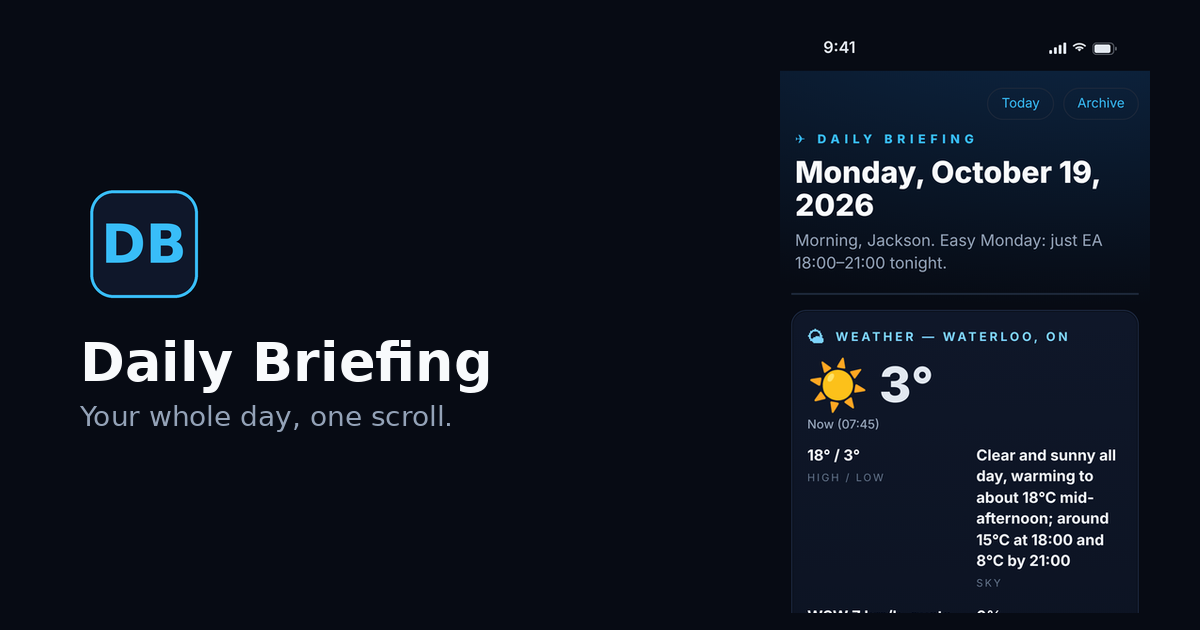
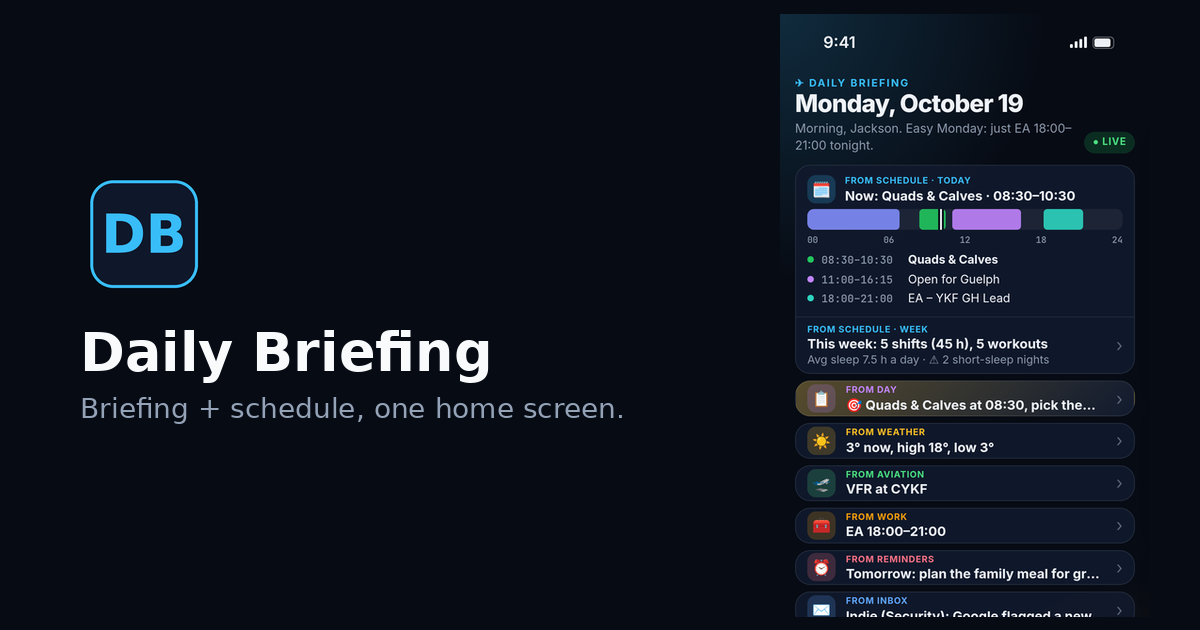
Teaser: show the combined widget app (briefing roll-up, schedule today and week, detail screens, gestures, colourways)

diff --git a/index.html b/index.html
@@ -3,10 +3,10 @@
 <head>
 <meta charset="utf-8">
 <meta name="viewport" content="width=device-width,initial-scale=1,viewport-fit=cover">
-<title>Daily Briefing: your whole day, one scroll</title>
+<title>Daily Briefing: your whole day, one home screen</title>
 <meta name="description" content="Weather, aviation, shifts, workouts, calendar, tasks and the day's focus — assembled every morning into one phone-friendly briefing.">
 <meta name="theme-color" content="#070b14">
-<meta property="og:title" content="Daily Briefing: your whole day, one scroll">
+<meta property="og:title" content="Daily Briefing: your whole day, one home screen">
 <meta property="og:description" content="Weather, aviation, shifts, workouts, calendar and focus in one morning briefing.">
 <meta property="og:image" content="https://jacksonpjwilson-dev.github.io/daily-briefing-launch/og.png">
 <meta name="twitter:card" content="summary_large_image">
@@ -15,13 +15,13 @@
 <link rel="apple-touch-icon" sizes="180x180" href="icon-180.png">
 <link rel="preconnect" href="https://fonts.googleapis.com"><link rel="preconnect" href="https://fonts.gstatic.com" crossorigin>
 <link href="https://fonts.googleapis.com/css2?family=Inter:wght@400;500;600;700;800&display=swap" rel="stylesheet">
-<link rel="preload" as="image" href="shots/today.webp">
-<link rel="stylesheet" href="styles.css?v=1">
+<link rel="preload" as="image" href="shots/briefing.webp">
+<link rel="stylesheet" href="styles.css?v=2">
 </head>
 <body>
 <header class="nav"><a class="brand" href="#top"><img src="icon-180.png" alt="" width="28" height="28">Daily Briefing</a>
-<nav><a href="#weather">Weather</a><a href="#aviation">Aviation</a><a href="#work">Work</a><a href="#day">Day</a><a href="#more">More</a></nav>
-<a class="pill sm" href="https://jacksonpjwilson-dev.github.io/briefing/">Open the live app</a></header>
+<nav><a href="#briefing">Briefing</a><a href="#schedule">Schedule</a><a href="#sections">Sections</a><a href="#gestures">Gestures</a><a href="#colourways">Colourways</a></nav>
+<a class="pill sm" href="https://jacksonpjwilson-dev.github.io/briefing/preview-widget/">Try the preview</a></header>
 
 <main id="top">
 <section class="hero">
@@ -29,67 +29,75 @@
   <div class="hero-copy rv">
     <img class="appicon" src="icon-512.png" alt="Daily Briefing app icon" width="112" height="112">
     <p class="kicker">Introducing Daily Briefing</p>
-    <h1>Your whole day.<br><span class="grad">One scroll.</span></h1>
-    <p class="lede">Weather, METAR and TAF, shifts, aircraft movements, the workout, calendar, tasks and today's focus — assembled every morning into one phone-ready briefing.</p>
-    <div class="ctas"><a class="pill" href="https://jacksonpjwilson-dev.github.io/briefing/">Open the live briefing</a><a class="pill ghost" href="#weather">See what's inside ↓</a></div>
+    <h1>Your whole day.<br><span class="grad">One home screen.</span></h1>
+    <p class="lede">Your briefing and Cal’s combined schedule in one app. Swipe between widget pages, tap any line to zoom into its full section, then swipe up to go home.</p>
+    <div class="ctas"><a class="pill" href="https://jacksonpjwilson-dev.github.io/briefing/preview-widget/">Open the live preview</a><a class="pill ghost" href="#briefing">See how it works ↓</a></div>
     <div class="storewrap"><span class="store" role="img" aria-label="Coming soon on the App Store"><svg class="apl" viewBox="0 0 17 20" aria-hidden="true"><path fill="currentColor" d="M14.1 10.6c0-2.6 2.1-3.8 2.2-3.9-1.2-1.8-3.1-2-3.7-2-1.6-.2-3.1.9-3.9.9-.8 0-2-.9-3.4-.9C3.6 4.8 2 5.8 1.1 7.4c-1.8 3.2-.5 7.9 1.3 10.5.9 1.3 1.9 2.7 3.2 2.6 1.3-.1 1.8-.8 3.3-.8 1.6 0 2 .8 3.4.8 1.4 0 2.3-1.3 3.1-2.6 1-1.5 1.4-2.9 1.4-3-.1 0-2.7-1-2.7-4.3zM11.6 3c.7-.9 1.2-2 1-3.2-1 0-2.3.7-3 1.6-.7.8-1.2 2-1.1 3.1 1.2.1 2.3-.6 3.1-1.5z"/></svg><span><small>Coming soon on the</small><b>App Store</b></span></span></div>
   </div>
-  <div class="hero-phone rv d2"><div class="phone xl"><div class="scr"><img src="shots/today.webp" alt="Daily Briefing home screen" fetchpriority="high"></div><i class="island"></i></div></div>
+  <div class="hero-phone rv d2"><div class="phone xl"><div class="scr"><img src="shots/briefing.webp" alt="Briefing home: a roll-up of every section" fetchpriority="high"></div><i class="island"></i></div></div>
 </section>
 
-<section id="weather" class="feature">
-  <div class="copy rv"><p class="kicker">Weather</p><h2>Local conditions,<br>before you step out.</h2><p>Temperature, sky, wind and precip for home base — written in plain language, not just icons.</p>
-  <ul class="ticks"><li>Now, high and low at a glance</li><li>Wind with gusts</li><li>A short narrative for the rest of the day</li></ul></div>
-  <div class="stage rv d1"><div class="phone"><div class="scr"><img src="shots/weather.webp" alt="Weather card" loading="lazy"></div><i class="island"></i></div></div>
+<section id="briefing" class="feature">
+  <div class="copy rv"><p class="kicker">The briefing</p><h2>A summary of<br>the whole app.</h2><p>Home is built only from the app's sections. Every line carries a small "from Schedule", "from Weather" or "from Work" label, and tapping it opens that section.</p>
+  <ul class="ticks"><li>Today's schedule up top, with a live now-marker</li><li>This week's shifts, workouts and sleep at a glance</li><li>Focus, weather, aviation, work, reminders, inbox and more</li></ul></div>
+  <div class="stage rv d1"><div class="phone"><div class="scr"><img src="shots/briefing.webp" alt="Briefing roll-up with source labels" loading="lazy"></div><i class="island"></i></div></div>
 </section>
 
-<section id="aviation" class="feature flip">
-  <div class="copy rv"><p class="kicker">Aviation</p><h2>METAR, TAF and a<br>VFR call you can trust.</h2><p>Raw and decoded field weather for CYKF, plus a short note that ties the forecast to your shift.</p>
-  <ul class="ticks"><li>Live category badge: VFR, MVFR, IFR or LIFR</li><li>Decoded wind, vis, sky and altimeter</li><li>Frost and timing callouts when they matter</li></ul></div>
-  <div class="stage rv d1"><div class="phone"><div class="scr"><img src="shots/aviation.webp" alt="Aviation METAR and TAF" loading="lazy"></div><i class="island"></i></div></div>
-</section>
-
-<section id="work" class="trio">
-  <div class="copy center rv"><p class="kicker">Work day</p><h2>Shifts, movements and the workout.</h2><p>Who you're working for, what's on the ramp, and when you're lifting — so the day doesn't collide with itself.</p></div>
+<section id="schedule" class="trio dark">
+  <div class="copy center rv"><p class="kicker">Schedule</p><h2>Today and the week, from Cal’s combined schedule.</h2><p>Chartright and EA shifts, workouts, sleep and the Guelph windows, in Ontario 24-hour time. Free windows and short-sleep nights are worked out for you.</p></div>
   <div class="row3">
-    <figure class="rv"><div class="phone"><div class="scr"><img src="shots/shifts.webp" alt="Today's shifts" loading="lazy"></div><i class="island"></i></div><figcaption><b>Shifts</b>EA, Chartright and the rest, with times and notes.</figcaption></figure>
-    <figure class="rv d1"><div class="phone"><div class="scr"><img src="shots/movements.webp" alt="Aircraft movements" loading="lazy"></div><i class="island"></i></div><figcaption><b>Movements</b>Arrivals and departures pulled from FlightBridge.</figcaption></figure>
-    <figure class="rv d2"><div class="phone"><div class="scr"><img src="shots/workout.webp" alt="Workout of the day" loading="lazy"></div><i class="island"></i></div><figcaption><b>Workout</b>Group, time and label — or a rest day.</figcaption></figure>
+    <figure class="rv"><div class="phone"><div class="scr"><img src="shots/schedule-today.webp" alt="Schedule today detail" loading="lazy"></div><i class="island"></i></div><figcaption><b>Today</b>What's on now, free windows and the full timeline.</figcaption></figure>
+    <figure class="rv d1"><div class="phone"><div class="scr"><img src="shots/schedule-week.webp" alt="Schedule week detail" loading="lazy"></div><i class="island"></i></div><figcaption><b>Week</b>Seven days side by side, plus sleep flags.</figcaption></figure>
+    <figure class="rv d2"><div class="phone"><div class="scr"><img src="shots/plan.webp" alt="Week widget page" loading="lazy"></div><i class="island"></i></div><figcaption><b>Week widget</b>The week on your home screen.</figcaption></figure>
   </div>
 </section>
 
-<section id="day" class="trio dark">
-  <div class="copy center rv"><p class="kicker">The day ahead</p><h2>Calendar, tasks and one clear focus.</h2><p>Your week view, the open list, and a single orange card that says what actually matters today.</p></div>
+<section id="sections" class="feature flip">
+  <div class="copy rv"><p class="kicker">Widgets</p><h2>Swipe between pages.<br>Tap to zoom in.</h2><p>Each part of the briefing has its own widget. Tap one and it grows into a full screen with more detail than the card shows.</p>
+  <ul class="ticks"><li>Swipe pager, so home never scrolls</li><li>A dock for Today, Week, Inbox and Settings</li><li>Safe areas respected on every iPhone</li></ul></div>
+  <div class="stage rv d1"><div class="phone"><div class="scr"><img src="shots/sections.webp" alt="Sections widget page" loading="lazy"></div><i class="island"></i></div></div>
+</section>
+
+<section class="trio">
+  <div class="copy center rv"><p class="kicker">Field and work</p><h2>Weather, METAR and TAF, and the shift ahead.</h2><p>Every detail screen goes further than its card: decoded aviation weather, how the day's weather lines up with your plans, and upcoming shifts with rest checks.</p></div>
   <div class="row3">
-    <figure class="rv"><div class="phone"><div class="scr"><img src="shots/calendar.webp" alt="Today's calendar" loading="lazy"></div><i class="island"></i></div><figcaption><b>Calendar</b>The week image embedded in the briefing.</figcaption></figure>
-    <figure class="rv d1"><div class="phone"><div class="scr"><img src="shots/tasks.webp" alt="Open tasks" loading="lazy"></div><i class="island"></i></div><figcaption><b>Open tasks</b>Everything still unchecked, in one place.</figcaption></figure>
-    <figure class="rv d2"><div class="phone"><div class="scr"><img src="shots/focus.webp" alt="Today's focus" loading="lazy"></div><i class="island"></i></div><figcaption><b>Today's focus</b>One sentence that sets the day.</figcaption></figure>
+    <figure class="rv"><div class="phone"><div class="scr"><img src="shots/weather.webp" alt="Weather detail" loading="lazy"></div><i class="island"></i></div><figcaption><b>Weather</b>Now, high and low, wind, and your day outside.</figcaption></figure>
+    <figure class="rv d1"><div class="phone"><div class="scr"><img src="shots/aviation.webp" alt="Aviation detail" loading="lazy"></div><i class="island"></i></div><figcaption><b>Aviation</b>Category, raw and decoded METAR and TAF.</figcaption></figure>
+    <figure class="rv d2"><div class="phone"><div class="scr"><img src="shots/work.webp" alt="Work detail" loading="lazy"></div><i class="island"></i></div><figcaption><b>Work</b>Today's shifts, movements, upcoming shifts.</figcaption></figure>
   </div>
 </section>
 
-<section id="more" class="trio">
-  <div class="copy center rv"><p class="kicker">And more</p><h2>Prospects, the Sixers, and every past day.</h2><p>Career leads with NEW badges, the next 76ers tip-off, and an archive of every briefing you've published.</p></div>
+<section class="trio dark">
+  <div class="copy center rv"><p class="kicker">Your day</p><h2>Focus, reminders and the inbox.</h2><p>One clear focus, reminders grouped by when they're due, and highlights from your assistants. No money or financial info, ever.</p></div>
   <div class="row3">
-    <figure class="rv"><div class="phone"><div class="scr"><img src="shots/prospects.webp" alt="Top pilot prospects" loading="lazy"></div><i class="island"></i></div><figcaption><b>Pilot prospects</b>Top ranked openings, flagged when they're new.</figcaption></figure>
-    <figure class="rv d1"><div class="phone"><div class="scr"><img src="shots/sixers.webp" alt="Next 76ers game" loading="lazy"></div><i class="island"></i></div><figcaption><b>Next 76ers game</b>Opponent, tip-off, venue and a GAME DAY badge.</figcaption></figure>
-    <figure class="rv d2"><div class="phone"><div class="scr"><img src="shots/archive.webp" alt="Briefing archive" loading="lazy"></div><i class="island"></i></div><figcaption><b>Archive</b>Scroll back through every published day.</figcaption></figure>
+    <figure class="rv"><div class="phone"><div class="scr"><img src="shots/day.webp" alt="Day detail" loading="lazy"></div><i class="island"></i></div><figcaption><b>Day</b>Focus, workout, calendar and open tasks.</figcaption></figure>
+    <figure class="rv d1"><div class="phone"><div class="scr"><img src="shots/reminders.webp" alt="Reminders detail" loading="lazy"></div><i class="island"></i></div><figcaption><b>Reminders</b>Next 24 hours, this week, later.</figcaption></figure>
+    <figure class="rv d2"><div class="phone"><div class="scr"><img src="shots/inbox.webp" alt="Inbox detail" loading="lazy"></div><i class="island"></i></div><figcaption><b>Inbox</b>Highlights, plus a sample thread list.</figcaption></figure>
   </div>
 </section>
 
-<section class="feature">
-  <div class="copy rv"><p class="kicker">On your phone</p><h2>A PWA you can<br>add to the Home Screen.</h2><p>Open the live briefing on your iPhone, tap Share, then Add to Home Screen. It launches full-screen with its own icon — no App Store required yet.</p>
-  <ul class="ticks"><li>Works offline once cached</li><li>Dark theme that matches the briefing</li><li>Public copy never includes money data</li></ul></div>
-  <div class="stage rv d1"><div class="phone"><div class="scr"><img src="shots/today.webp" alt="Briefing on the Home Screen" loading="lazy"></div><i class="island"></i></div></div>
+<section id="gestures" class="feature">
+  <div class="copy rv"><p class="kicker">Gestures</p><h2>Swipe up<br>to go home.</h2><p>Drag the home bar and the screen shrinks back into the widget it came from, just like on iPhone. The More section has the pilot prospects, the next 76ers game and the briefing archive.</p></div>
+  <div class="stage rv d1"><div class="phone"><div class="scr"><img src="shots/swipe-up.webp" alt="Swipe up from the home bar to close" loading="lazy"></div><i class="island"></i></div></div>
+</section>
+
+<section id="colourways" class="trio">
+  <div class="copy center rv"><p class="kicker">Colourways</p><h2>Six looks, dark or light.</h2><p>Midnight, Runway, Aurora, Cockpit, Daylight and Paper. Pick one in Settings.</p></div>
+  <div class="row3">
+    <figure class="rv"><div class="phone"><div class="scr"><img src="shots/cw-runway.webp" alt="Runway colourway" loading="lazy"></div><i class="island"></i></div><figcaption><b>Runway</b>Warm amber on black.</figcaption></figure>
+    <figure class="rv d1"><div class="phone"><div class="scr"><img src="shots/cw-daylight.webp" alt="Daylight colourway" loading="lazy"></div><i class="island"></i></div><figcaption><b>Daylight</b>Clean and light.</figcaption></figure>
+    <figure class="rv d2"><div class="phone"><div class="scr"><img src="shots/settings.webp" alt="Settings with colourway picker" loading="lazy"></div><i class="island"></i></div><figcaption><b>Settings</b>Colourways and data sources.</figcaption></figure>
+  </div>
 </section>
 
 <section class="final rv">
   <img class="appicon" src="icon-512.png" alt="" width="96" height="96">
-  <h2>Your morning, already assembled.</h2>
-  <p>Open the live briefing on your phone, then Add to Home Screen.</p>
-  <div class="ctas center"><a class="pill" href="https://jacksonpjwilson-dev.github.io/briefing/">Open the live briefing</a><span class="store" role="img" aria-label="Coming soon on the App Store"><svg class="apl" viewBox="0 0 17 20" aria-hidden="true"><path fill="currentColor" d="M14.1 10.6c0-2.6 2.1-3.8 2.2-3.9-1.2-1.8-3.1-2-3.7-2-1.6-.2-3.1.9-3.9.9-.8 0-2-.9-3.4-.9C3.6 4.8 2 5.8 1.1 7.4c-1.8 3.2-.5 7.9 1.3 10.5.9 1.3 1.9 2.7 3.2 2.6 1.3-.1 1.8-.8 3.3-.8 1.6 0 2 .8 3.4.8 1.4 0 2.3-1.3 3.1-2.6 1-1.5 1.4-2.9 1.4-3-.1 0-2.7-1-2.7-4.3zM11.6 3c.7-.9 1.2-2 1-3.2-1 0-2.3.7-3 1.6-.7.8-1.2 2-1.1 3.1 1.2.1 2.3-.6 3.1-1.5z"/></svg><span><small>Coming soon on the</small><b>App Store</b></span></span></div>
+  <h2>Your day, on one home screen.</h2>
+  <p>Open the live preview on your iPhone, tap Share, then Add to Home Screen.</p>
+  <div class="ctas center"><a class="pill" href="https://jacksonpjwilson-dev.github.io/briefing/preview-widget/">Open the live preview</a><span class="store" role="img" aria-label="Coming soon on the App Store"><svg class="apl" viewBox="0 0 17 20" aria-hidden="true"><path fill="currentColor" d="M14.1 10.6c0-2.6 2.1-3.8 2.2-3.9-1.2-1.8-3.1-2-3.7-2-1.6-.2-3.1.9-3.9.9-.8 0-2-.9-3.4-.9C3.6 4.8 2 5.8 1.1 7.4c-1.8 3.2-.5 7.9 1.3 10.5.9 1.3 1.9 2.7 3.2 2.6 1.3-.1 1.8-.8 3.3-.8 1.6 0 2 .8 3.4.8 1.4 0 2.3-1.3 3.1-2.6 1-1.5 1.4-2.9 1.4-3-.1 0-2.7-1-2.7-4.3zM11.6 3c.7-.9 1.2-2 1-3.2-1 0-2.3.7-3 1.6-.7.8-1.2 2-1.1 3.1 1.2.1 2.3-.6 3.1-1.5z"/></svg><span><small>Coming soon on the</small><b>App Store</b></span></span></div>
 </section>
 </main>
-<footer><span>© 2026 Daily Briefing</span><span>Screens shown use the live public briefing.</span></footer>
+<footer><span>© 2026 Daily Briefing</span><span>Screens show the live preview on Mon Oct 19 2026. The inbox thread list is sample data.</span></footer>
 <script src="app.js?v=1"></script>
 </body>
 </html>

diff --git a/README.md b/README.md
@@ -2,7 +2,7 @@
 
 Promo / teaser site for Daily Briefing. Static, served by GitHub Pages.
 
-- Live app: https://jacksonpjwilson-dev.github.io/briefing/
+- Live app (combined widget preview): https://jacksonpjwilson-dev.github.io/briefing/preview-widget/
 - This page: https://jacksonpjwilson-dev.github.io/daily-briefing-launch/
-- `shots/`: 1179×2556 (393×852 @3x) captures of the live public PWA (no money data)
+- `shots/`: 1179×2556 (393×852 @3x) captures of the live widget app (no money data; source PNGs in /workspace/briefing-shots/widget1/)
 - Modelled on [logbook-launch](https://jacksonpjwilson-dev.github.io/logbook-launch/)
